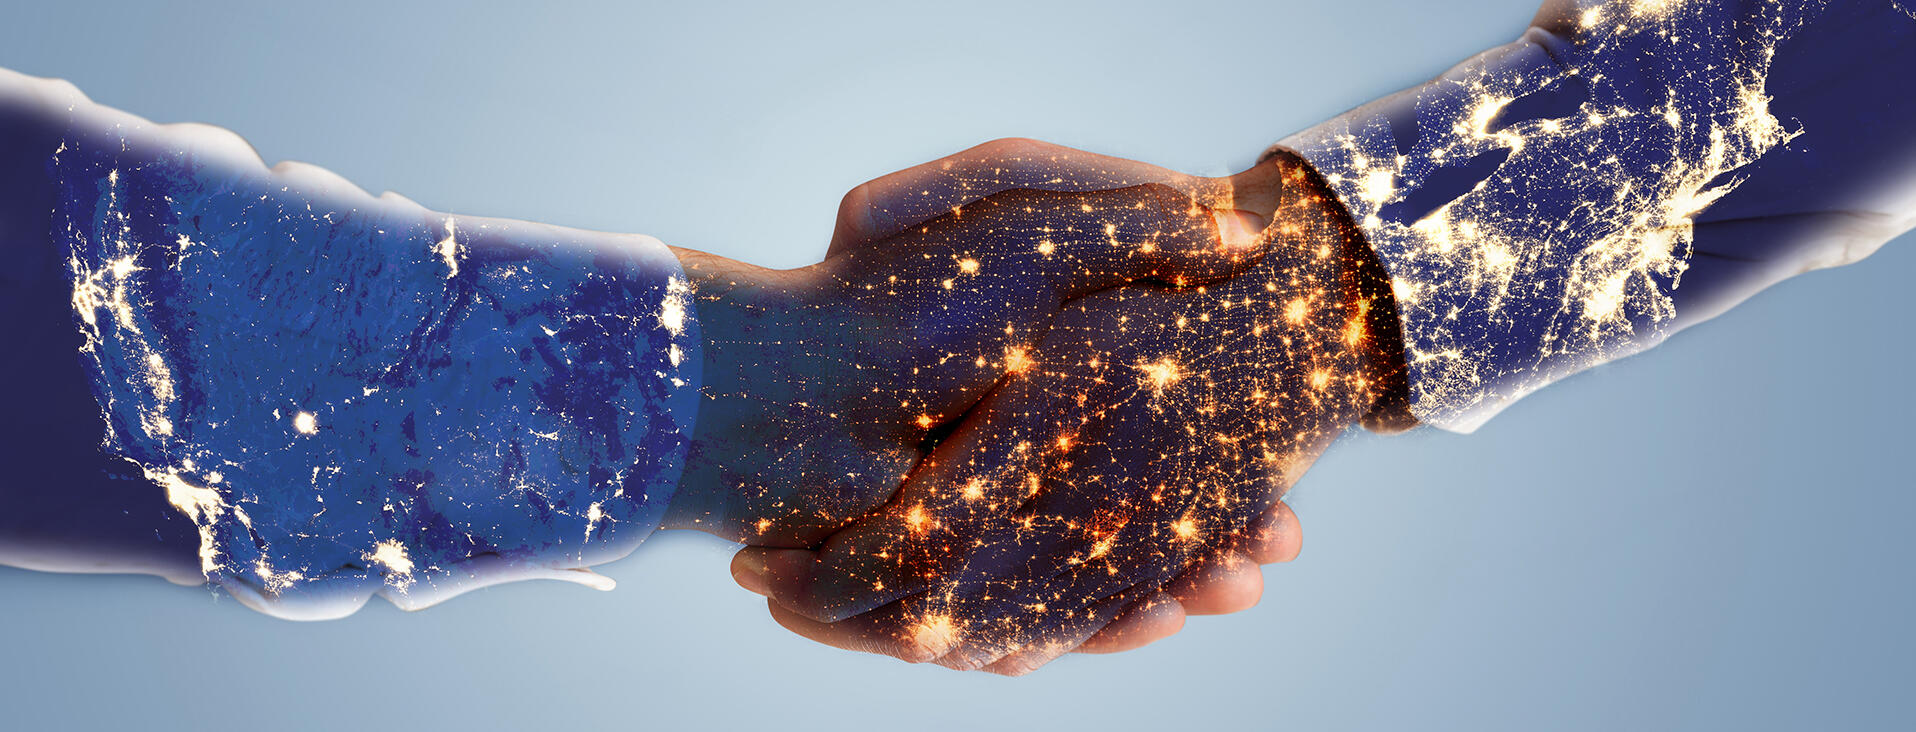
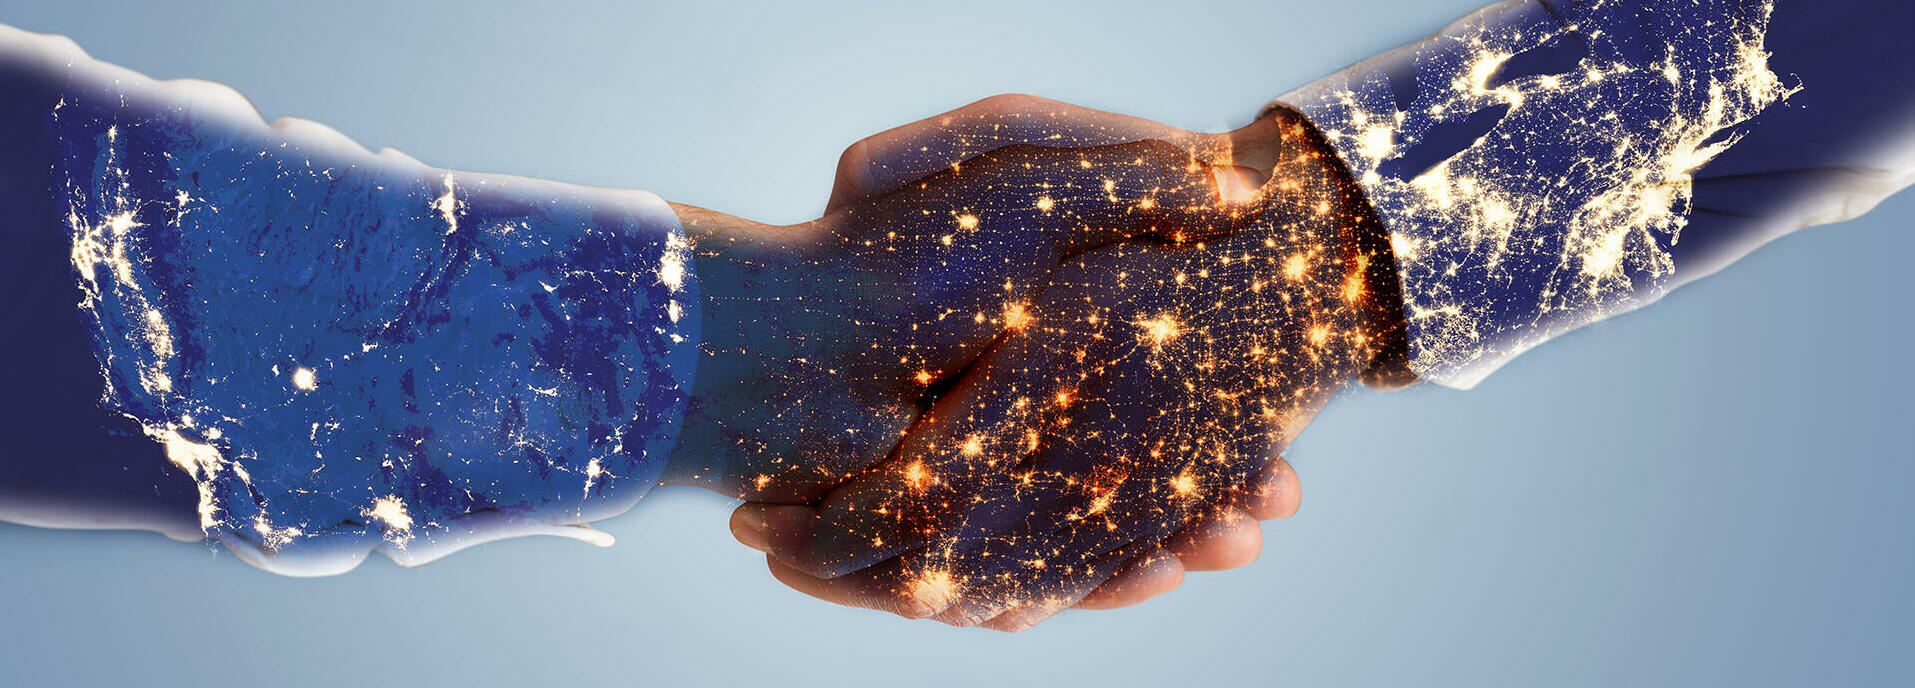
editted cards got better UI

diff --git a/application/milestone3/frontend/src/components/Home.css b/application/milestone3/frontend/src/components/Home.css
@@ -3,9 +3,7 @@
 }
 
 .LandingBanner-bg {
-    height: 45%;
-    background-size: cover;
-    background-position: center center;
+    height: 47%;
     background-repeat: no-repeat;
     position: relative;
 

diff --git a/application/milestone3/frontend/src/components/Products.css b/application/milestone3/frontend/src/components/Products.css
@@ -29,8 +29,8 @@
 
 .items {
     float: left;
-    margin-left: 15%;
-    width: 85%;
+    margin-left: 17.5%;
+    width: 82.5%;
     display: flex;
     flex-wrap: wrap;
     justify-content: left;

diff --git a/application/milestone3/frontend/src/components/Card.css b/application/milestone3/frontend/src/components/Card.css
@@ -1,6 +1,7 @@
 .card > img{
     width: 100%;
-    object-fit: contain;
+    height: 100%;
+    margin: 0 0;
 }
 
 .card:hover{
